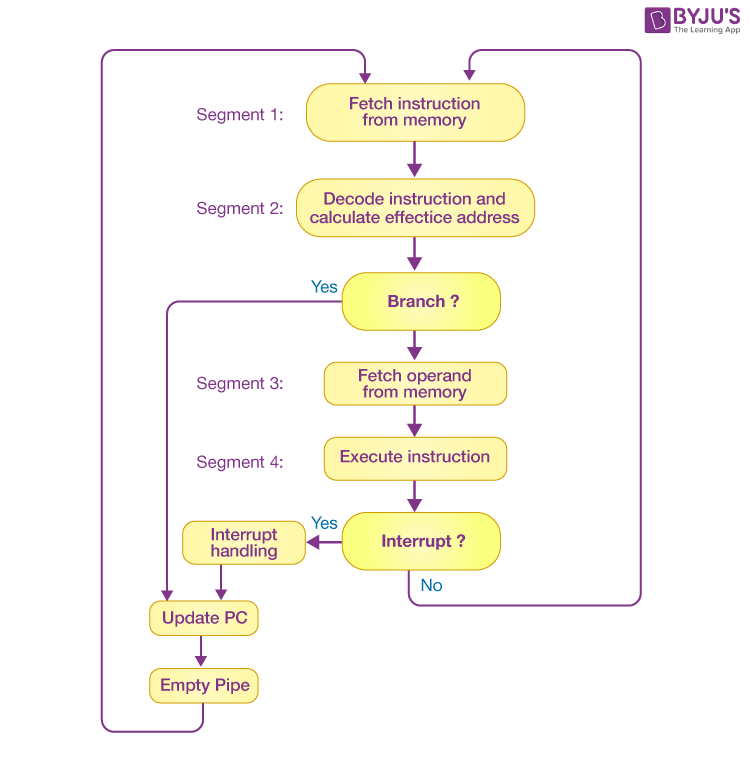
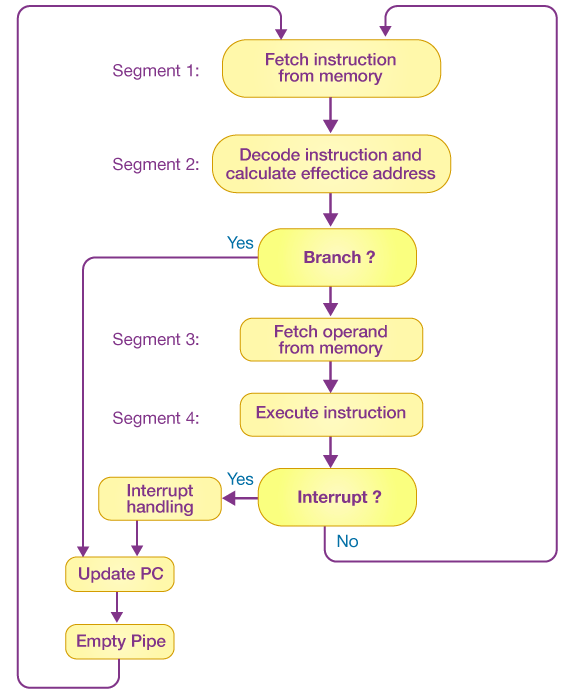
gate cso

Changed region(s): [[0.0298, 0.0, 0.9842, 0.9943]]

diff --git a/Learning/Gate/subjects/CSO/topics/pipeline_th.tex b/Learning/Gate/subjects/CSO/topics/pipeline_th.tex
@@ -1,182 +1,54 @@
 
-\centerline{\textbf{ \LARGE Number System, Real Number Representation}}
+\centerline{\textbf{ \LARGE Pipeline }}
 
 \begin{enumerate}
-    \item Types \\
-    \begin{myTableStyle} \begin{tabular}{ |m{5cm}|m{8cm}| } \hline
-        Weighted Number System      &   Binary, Octal, Hexa-decimal, BCD, 2421 etc.. \\ \hline
-        Un-weighted Number System   &   Grey code, Excess-3 code  \\ \hline
-        Self complementing code     &   Excess-3, 2421\\ \hline
+    \item Instruction Execution \\
+        \begin{figure}[h]
+            \centering   \includegraphics[scale=0.5]{./images/instruction-execution.png}
+        \end{figure}
+
+    \item Formulas\\
+    \begin{myTableStyle} \begin{tabular}{ |m{5cm}|m{3cm}|m{5cm}| } \hline
+        Stages                      &  k                & \\ \hline
+        instructions                &  n                & \\ \hline
+        Cycle Time                  &  \(T_c\)          &  Max(StageDelay) + Buffer Delay\\ \hline
+        Total Cycles(Pipeline)      &  k + (n-1)        & \(Time = P_c * T_c\) \\ \hline
+        Total Cycles(Non-Pipeline)  &  n*k              & \(Time = (NP)_c * T_c\) \\ \hline
+        Speed-up                    &  n*k/(k + (n-1))  & = k, n \(\gg\) k. \\ \hline
     \end{tabular} \end{myTableStyle} \vspace{0.08in}
 
-    \item Conversion between number systems.\\
-    \begin{myTableStyle} \begin{tabular}{ |m{5cm}|m{9cm}| } \hline
-        { \Large \( (P.Q)_{10}\) to \( (X.Y)_a\) }      &   Divide P by a. Multiply Q by a \\ \hline
-        { \Large \( (X.Y)_a\) to \( (P.Q)_{10}\) }      &   Power of a \\ \hline
-        Binary to Octal-Hexa                            &   Right to Left pairing. Octal(3), Hexa(4) \\ \hline
-        Octal-Hexa to Binary                            &   Convert each digit to binary equivalant. Octal(3), Hexa(4) \\ \hline
-    \end{tabular} \end{myTableStyle} \vspace{0.08in}
-
-    \item BCD(8421) : decimal to binary
+    \item Structural Hazards.
     \begin{enumerate}
-    \item Each digit in decimal number is converted to its 4(or 8) bit binary equivalent.
-    \item Conversion is faster. Less multiplication or division
-    \item Havy-weighted : Uses extra bits.
-    \item It avoids fractional errors. More accurate representation for numbers with decimal.\\
-    \begin{myTableStyle} \begin{tabular}{ |m{3cm}|m{4cm}|m{3cm}| } \hline
-        Decimal                 & Binary(Fractional error)     & BCD       \\ \hline
-        {\Large \((0.2)_{10}\)} & (0.0011 . . . . \(\infty\))   & (0.0010)  \\ \hline
-    \end{tabular} \end{myTableStyle} \vspace{0.08in}
-
-    \item Valid Invalid BCD code \\
-    \begin{myTableStyle} \begin{tabular}{ |m{2cm}|m{2cm}|m{2cm}|m{2cm}|m{2cm}| } \hline
-                    & Total     & Valid & Invalid   & Range     \\ \hline
-        4-bit BCD   &   16      & 10    & 6         & 0 - 9     \\ \hline
-        8-bit BCD   &   256     & 100   & 156       & 00 - 99   \\ \hline
-    \end{tabular} \end{myTableStyle} \vspace{0.08in}
-
+        \item Hardware resource conflicts among the instructions in the pipelin.
+        \item Memory, a GPR Register, or an ALU
+        \item Fetch cycle and Execution cycle both may need ALU at the same time. Fetching involves calculating Effective Address.
+        \item more than one instruction in the pipe requires access to the very same resource in the same clock cycle.
+        \item Solution: Introduce bubble
+        \item Solution: Separate memory for Instruction and Data.
+        \item Solution: Use of register files. Allows access to one write register, and one read register.
     \end{enumerate}
 
-    \item Excess–3 code : decimal to binary
+    \item Data Hazards : RAW, WAR, WAW.
     \begin{enumerate}
-        \item Add 3 to each digit of the number.
-        \item Convert to BCD code.
+        \item instruction is dependent on the results of a previous instruction.
+        \item Solution: Re-order instruction by compiler.
+        \item Solution: Introduce bubble or NOP instruction.
+        \item Solution: Data forwarding sends data directly to the desired pipeline unit.
     \end{enumerate}
 
-    \item Gray Code : Also called Unit-distance codebinary
+    \item Control Hazards
     \begin{enumerate}
-        \item Successive numbers differ by exactly one bit.
-        \item Binary to Grey : Copy MSB. XOR adjescent pair.
+        \item caused by branch instructions.
+        \item Result of instruction determines the next instruction to be executed.
+        \item Solution: Re-order instruction. The Compiler is used to implement this delayed branch.
+        \item Solution: Introduce bubble(Stalling).
+        \item Solution: Prediction.
+        \item Solution: Dynamic Branch Prediction : Branch Table Buffer
+        \item Branch penalty = total no of stalls.
+        \item If the target address is present after the kth stage, then there will be (k – 1) stalls.
+        \item Total number of stalls = Branch frequency * Branch Penalty
     \end{enumerate}
-
-    \begin{center} \begin{tikzpicture}
-        \node[squarednode]      (MSBB)                     {1};
-        \node[squarednode]      (B2)       [right=of MSBB] {0};
-        \node[squarednode]      (B3)       [right=of B2]   {0};
-        \node[squarednode]      (B4)       [right=of B3]   {1};
-        \node[squarednode]      (B5)       [right=of B4]   {1};
-        \node[squarednode]      (B6)       [right=of B5]   {0};
-
-        \node[roundnode]      (MSBG)     [below=of MSBB] {1};
-        \node[roundnode]      (G2)       [right=of MSBG] {1};
-        \node[roundnode]      (G3)       [right=of G2]   {0};
-        \node[roundnode]      (G4)       [right=of G3]   {1};
-        \node[roundnode]      (G5)       [right=of G4]   {0};
-        \node[roundnode]      (G6)       [right=of G5]   {1};
-
-        \begin{vArrow}{MSBB.south}{MSBG.north} \end{vArrow}
-
-        \begin{tArcDown}[blue]{(MSBB.south)} \end{tArcDown}
-        \begin{vArrow}[blue]{B2.south}{G2.north} \end{vArrow}
-
-        \begin{tArcDown}{(B2.south)} \end{tArcDown}
-        \begin{vArrow}{B3.south}{G3.north} \end{vArrow}
-
-        \begin{tArcDown}[blue]{(B3.south)} \end{tArcDown}
-        \begin{vArrow}[blue]{B4.south}{G4.north} \end{vArrow}
-
-        \begin{tArcDown}{(B4.south)} \end{tArcDown}
-        \begin{vArrow}{B5.south}{G5.north} \end{vArrow}
-
-        \begin{tArcDown}[blue]{(B5.south)} \end{tArcDown}
-        \begin{vArrow}[blue]{B6.south}{G6.north} \end{vArrow}
-
-    \end{tikzpicture} \end{center}
-
-    \begin{minipage}{\linewidth}
-    \item B's Complement and (B-1)'s Complement
-    \begin{enumerate}
-        \item (B-1)'s Complement: Subtract number from largest no of that number system. \\
-    \begin{myTableStyle} \begin{tabular}{ |m{4cm}|m{3cm}|m{2cm}|m{2cm}| } \hline
-                            & Hexa Decimal           & Octal                & Binary                \\ \hline
-        (B-1)'s Complement  & FFFF - \( (hex)_{16}\)   & 7777 - \( (oct)_{8}\)  & 1111 - \( (bin)_{2}\)   \\ \hline
-    \end{tabular} \end{myTableStyle} \vspace{0.08in}
-
-        \item B's Complement : 1 + (B-1)'s Complement. \\
-    \end{enumerate}
-    \end{minipage}
-
-
-    \item Representaion of signed numbers. (Signed, 1's, 2's)
-    \begin{enumerate}
-        \item For n digits maximum unsigned number is \( (2^n -1) \)
-        \item For signed numbers extra bit used.
-        \item MSB=0 for +ive numbers and MSB=1 for negative numbers \\
-    \begin{myTableStyle} \begin{tabular}{ |m{3cm}|m{3cm}|m{3cm}|m{3cm}| } \hline
-        Size = 1+ (n-1)     & Signed Magnitude           & 1's Complement       & 2's complement        \\ \hline
-        +ive Number         & Extra Bit for Sign         & Extra Bit for Sign   & Extra Bit for Sign    \\ \hline
-        -ive Number         & Extra Bit for Sign         & 1's Comp of +ive no  & 2's Comp of +ive no   \\ \hline
-        Range               & \makecell[l]{ \( -(2^{(n-1)} -1) \) to \\ \( +(2^{(n-1)} -1) \) }
-                                                         & \makecell[l]{ \( -(2^{(n-1)} -1) \) to \\ \( +(2^{(n-1)} -1) \) }
-                                                         & \makecell[l]{ \( -(2^{(n-1)}) \) to \\ \( +(2^{(n-1)} -1) \) }   \\ \hline
-        Zero                & Represented twice          & Represented twice    & Represented Once   \\ \hline
-        Addition/Subtraction, check this&  2 circuit     & one circuit          &   one circuit      \\ \hline
-        Carry               & NA                         & handling needed      &   Ignore Carry         \\ \hline
-        Overflow            &                            &                      &   MSB-in XOR MSB-out ==1        \\ \hline
-    \end{tabular} \end{myTableStyle} \vspace{0.08in}
-    \end{enumerate}
-
-    \item Subtraction(P - Q)\\
-    \begin{myTableStyle} \begin{tabular}{ |m{3cm}|m{3cm}|m{3cm}| }  \hline
-        P - Q       &   1's Complement      &  2's complement       \\ \hline
-        Complement  &   Q1 = Q(1's comp)    &  Q2 = Q(2's comp)     \\ \hline
-        Addition    &   R = P + Q1          &  R = P + Q2           \\ \hline
-        Carry Yes   &   Result = R + C      &  Result = R           \\ \hline
-        Carry No    &   Result = R1         &  Result = R2          \\ \hline
-    \end{tabular} \end{myTableStyle} \vspace{0.08in}
-
-    \item condition for overflow.
-
-    \item Shifting in Multiplication and Division.
-    \begin{enumerate}
-        \item Multiplication by 2 is equivalent to left shift.
-        \item Division by 2 is equivalent to right shift.
-    \end{enumerate}
-
-    \item Representing real number www.geeksforgeeks.org/fixed-point-representation/
-    \begin{enumerate}
-        \item Fixed Point.
-        \item Floating Point.
-    \end{enumerate}
-
-    \begin{minipage}{\linewidth}
-    \item Fixed Point Representation.
-    \begin{enumerate}
-        \item Fixed Point(8, 3) : 8-bit number and 3 bits for fraction.
-        \item Same hardware arithmetic operations for integer and real numbers.
-        \item Loss in range because only (n-1) bit can store number.
-        \item Loss in precision.
-        \item Un-signed( n+f, f ) range is 0 to (\( 2^{n}\) -- \( 2^{-f}\))
-    \end{enumerate}
-
-    \item Floating Point
-    \begin{enumerate}
-        \item Do not reserve bits for the integer or fractional parts.
-        \item Normalized Form and De-normalized form.
-        \item IEEE special values \( \pm 0\), \( \pm \infty \), NAN
-        \item IEEE Single Precision : (1, 8, 23) bias = \(2^7 - 1\) = 127
-        \item IEEE Double Precision : (1, 11, 52) bias = \(2^{10} - 1\) = 1023
-        \item Example \\
-        \begin{myTableStyle} \begin{tabular}{ |m{1cm}|m{3cm}|m{3cm}|m{1cm}|l| } \hline
-            Number & Binary Form  &  Normalize              &  Exp    & Mant  \\ \hline
-            53.5   & 110101.1     &  1.101011 * \(2^5\)     &  bias+5 & 101011  \\ \hline
-            0.5    & 0.1          &  1.0000's * \(2^{-1}\)  &  bias-1 & 0's  \\ \hline
-            0.227  & 0.0011101101 &  1.1101101 * \(2^{-3}\) &  bias-3 & 1101101 \\ \hline
-        \end{tabular} \end{myTableStyle} \vspace{0.08in}
-    \end{enumerate}
-
-    \begin{myTableStyle} \begin{tabular}{ |m{2cm}|m{6cm}|m{6cm}| } \hline
-                            &   Fixed Point(8,3)            & Floating Point            \\ \hline
-        Un-signed           &   Integer + Fraction          & [Sign+Exp+Mant]    \\ \hline
-        Signed              &   Sign + Integer + Fraction   & [Sign+Exp+Mant]    \\ \hline
-        Performance         &   High                        & \\ \hline
-        Range of Values     &   limited                     & \\ \hline
-        Accuracy            &   inaccurate for no larger than n-bit  &  \\ \hline
-    \end{tabular} \end{myTableStyle} \vspace{0.08in}
-
-    \end{minipage}
-
-    \item The gap between two succesive numbers is small towards the minimum value and maximu towards the maximum value.
-    \item To be done later :  Booths algorithm, look ahead adder, full half adders
-
+    \item zzz
+    \item zzz
+    \item  Control unit in a pipelined design
 \end{enumerate}
